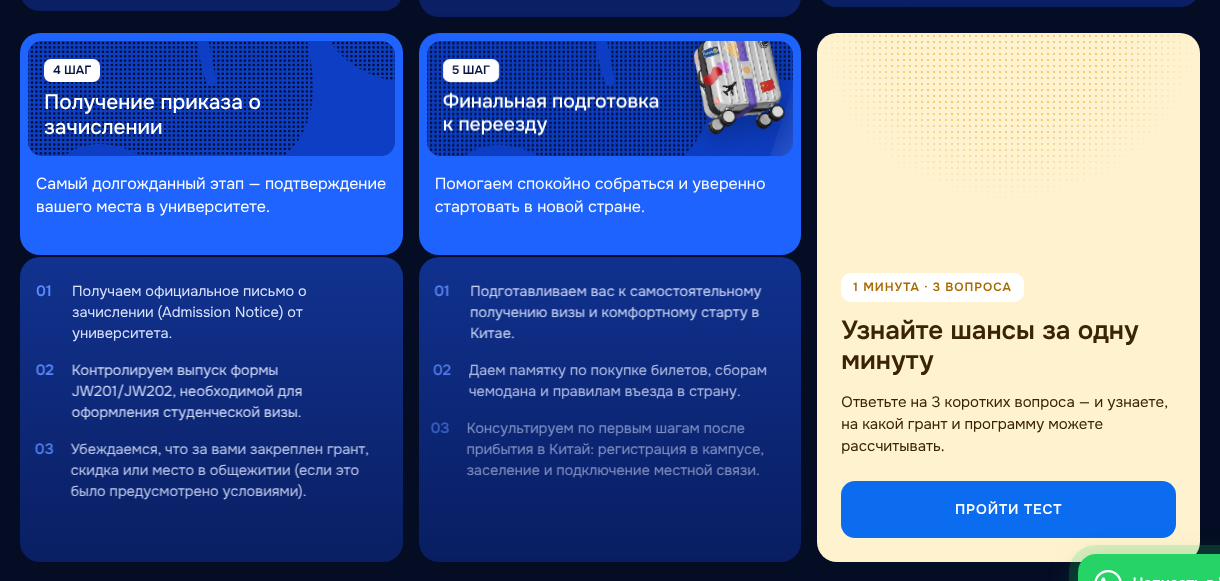
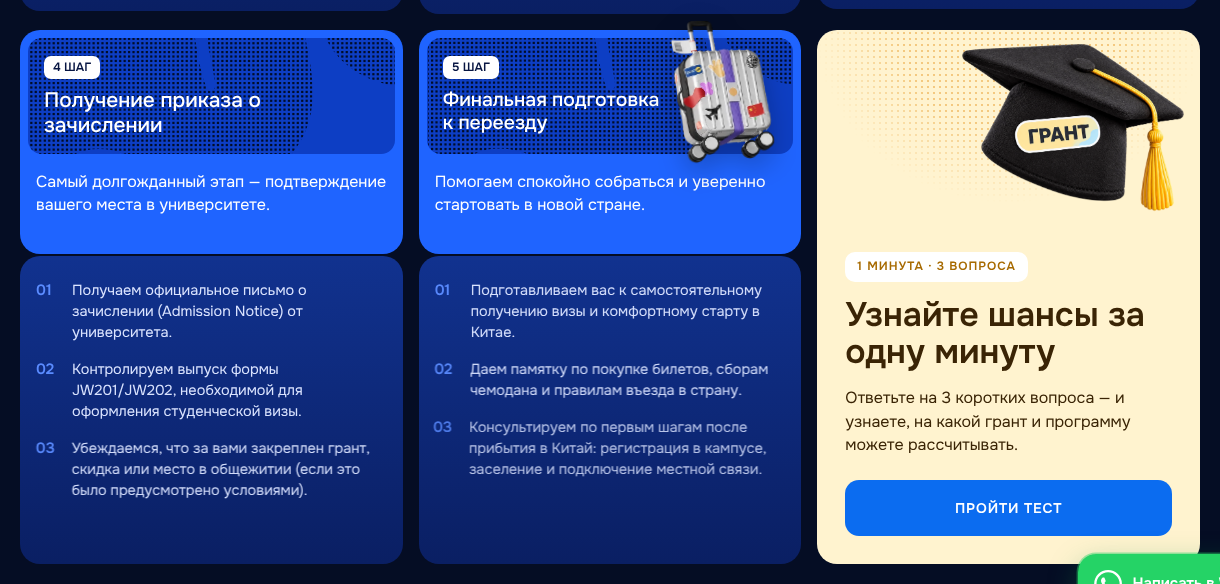
CTA card: new grant cap illustration
Claude-Session: https://claude.ai/code/session_01DveQThDXrjAqWsCdBVYsEN

diff --git a/index.html b/index.html
@@ -2675,7 +2675,7 @@ html,body{overflow-x:clip!important}
           <ol><li>Подготавливаем вас к самостоятельному получению визы и комфортному старту в Китае.</li><li>Даем памятку по покупке билетов, сборам чемодана и правилам въезда в страну.</li><li>Консультируем по первым шагам после прибытия в Китай: регистрация в кампусе, заселение и подключение местной связи.</li></ol>
         </div>
         <div class="cta-card reveal">
-          <img class="cta-ill" src="assets/opt/fc1-cap.webp" alt="" loading="lazy" decoding="async"><span class="cta-badge">1 минута · 3 вопроса</span>
+          <img class="cta-ill" src="assets/cta-cap.png" alt="" loading="lazy" decoding="async"><span class="cta-badge">1 минута · 3 вопроса</span>
           <h3>Узнайте шансы за одну минуту</h3>
           <p>Ответьте на 3 коротких вопроса — и узнаете, на какой грант и программу можете рассчитывать.</p>
           <button class="btn" type="button" data-open>Пройти тест</button>
